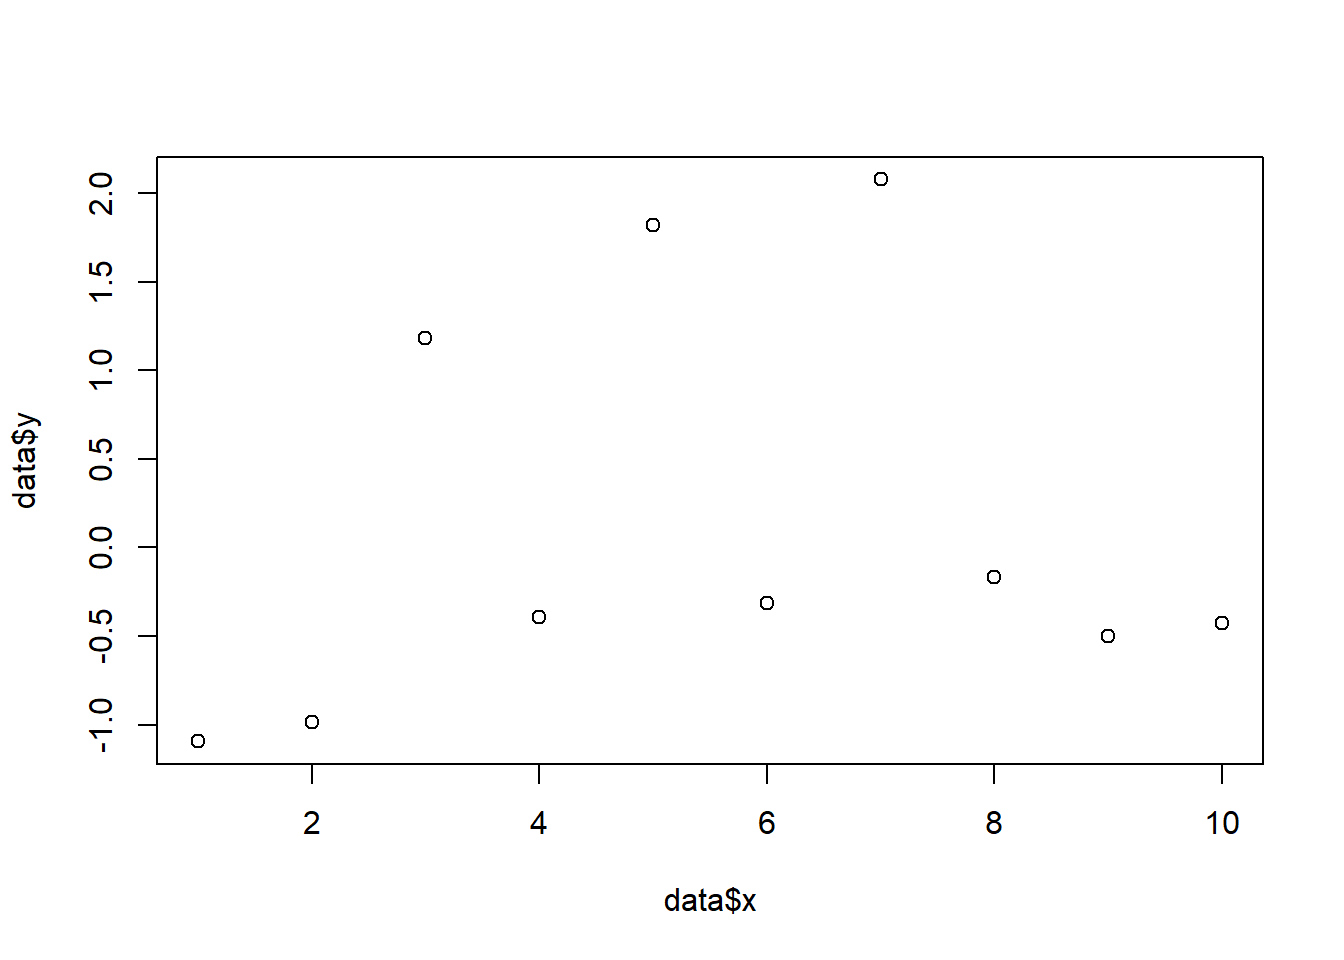
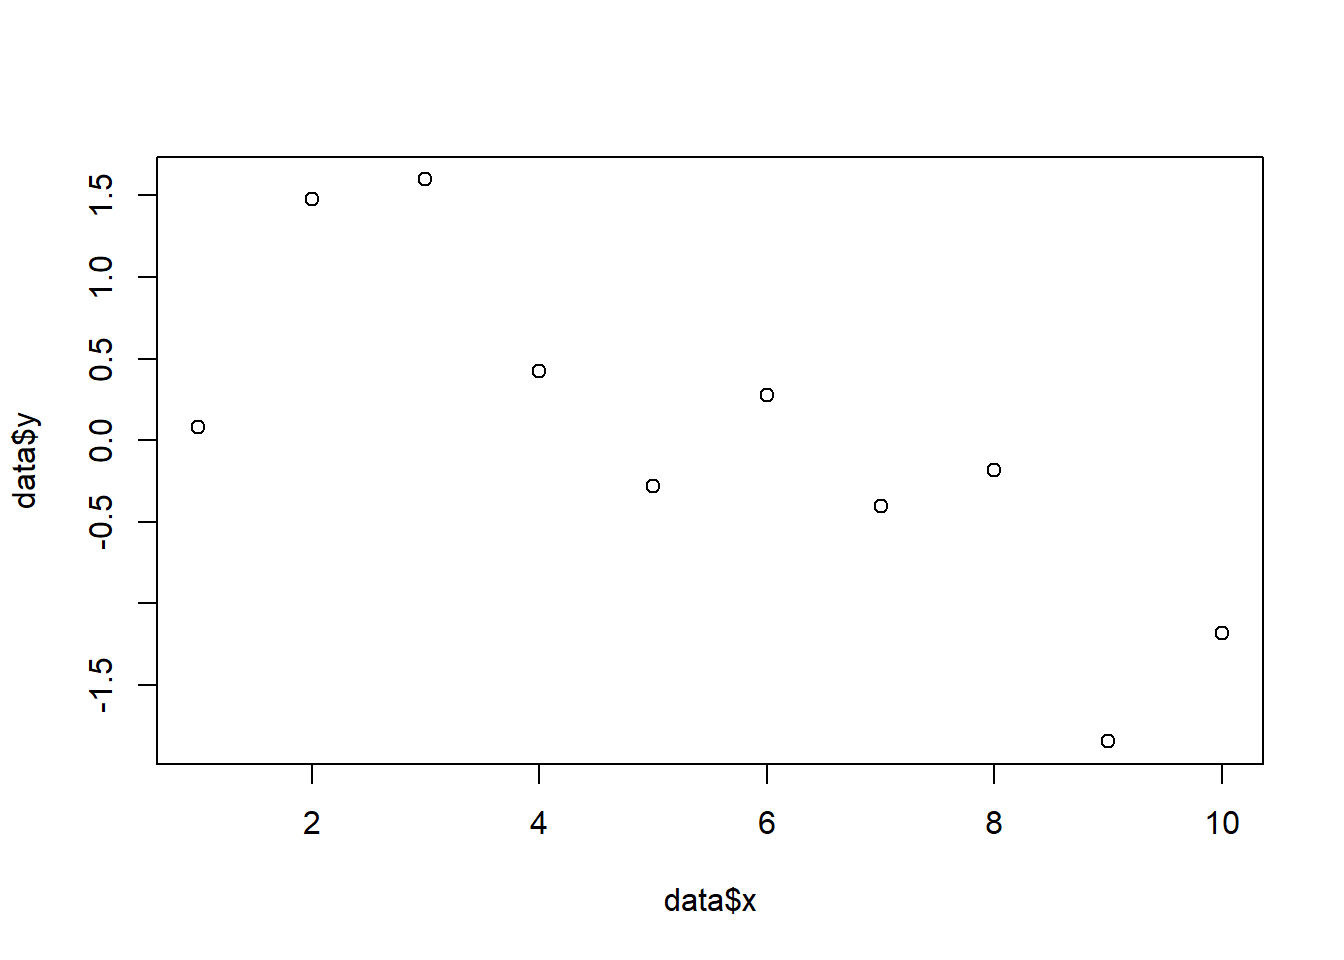
update pt 4

diff --git a/docs/projects/final-report.html b/docs/projects/final-report.html
@@ -7,9 +7,9 @@
 <meta name="viewport" content="width=device-width, initial-scale=1.0, user-scalable=yes">
 
 <meta name="author" content="Natalia Ramirez-Sotelo">
-<meta name="dcterms.date" content="2026-06-04">
+<meta name="dcterms.date" content="2026-07-29">
 
-<title>Final Report: [Differential Gene Analysis of Osteosarcoma] – My Research Profile</title>
+<title>Final Report: Differential Gene Analysis of Osteosarcoma – My Research Profile</title>
 <style>
 /* Default styles provided by pandoc.
 ** See https://pandoc.org/MANUAL.html#variables-for-html for config info.
@@ -160,11 +160,9 @@ pre > code.sourceCode > span > a:first-child::before { text-decoration: underlin
     <h2 id="toc-title">On this page</h2>
    
   <ul>
-  <li><a href="#final-report-your-project-title" id="toc-final-report-your-project-title" class="nav-link active" data-scroll-target="#final-report-your-project-title">Final Report: [Your Project Title]</a>
-  <ul class="collapse">
-  <li><a href="#introduction" id="toc-introduction" class="nav-link" data-scroll-target="#introduction">Introduction</a></li>
+  <li><a href="#introduction" id="toc-introduction" class="nav-link active" data-scroll-target="#introduction">Introduction</a></li>
   <li><a href="#methods" id="toc-methods" class="nav-link" data-scroll-target="#methods">Methods</a></li>
-  <li><a href="#results" id="toc-results" class="nav-link" data-scroll-target="#results">Results</a>
+  <li><a href="#data-analysis" id="toc-data-analysis" class="nav-link" data-scroll-target="#data-analysis">Data Analysis</a>
   <ul class="collapse">
   <li><a href="#example-code-block" id="toc-example-code-block" class="nav-link" data-scroll-target="#example-code-block">Example Code Block</a></li>
   <li><a href="#example-table" id="toc-example-table" class="nav-link" data-scroll-target="#example-table">Example Table</a></li>
@@ -172,7 +170,6 @@ pre > code.sourceCode > span > a:first-child::before { text-decoration: underlin
   <li><a href="#discussion" id="toc-discussion" class="nav-link" data-scroll-target="#discussion">Discussion</a></li>
   <li><a href="#conclusions" id="toc-conclusions" class="nav-link" data-scroll-target="#conclusions">Conclusions</a></li>
   <li><a href="#references" id="toc-references" class="nav-link" data-scroll-target="#references">References</a></li>
-  </ul></li>
   </ul>
 </nav>
     </div>
@@ -181,7 +178,7 @@ pre > code.sourceCode > span > a:first-child::before { text-decoration: underlin
 
 <header id="title-block-header" class="quarto-title-block default">
 <div class="quarto-title">
-<h1 class="title">Final Report: [Differential Gene Analysis of Osteosarcoma]</h1>
+<h1 class="title">Final Report: Differential Gene Analysis of Osteosarcoma</h1>
 </div>
 
 
@@ -198,7 +195,7 @@ pre > code.sourceCode > span > a:first-child::before { text-decoration: underlin
     <div>
     <div class="quarto-title-meta-heading">Published</div>
     <div class="quarto-title-meta-contents">
-      <p class="date">June 4, 2026</p>
+      <p class="date">July 29, 2026</p>
     </div>
   </div>
   
@@ -210,18 +207,24 @@ pre > code.sourceCode > span > a:first-child::before { text-decoration: underlin
 </header>
 
 
-<section id="final-report-your-project-title" class="level1">
-<h1>Final Report: [Your Project Title]</h1>
 <section id="introduction" class="level2">
 <h2 class="anchored" data-anchor-id="introduction">Introduction</h2>
-<p>Replace this with an introduction to your research question or project. What are you investigating? Why does it matter?</p>
+<p>Osteosarcoma is the most common primary bone tumor malignancy and demonstrates a high risk of metastasis and recurrence after therapy. It presents itself in a bimodal distribution as it is commonly observed in individuals under 25 years of age or individuals over 65 years of age. Its occurrence in young adults is mainly due to the rapid bone growth of adolescence which predisposes the individual to cancerous development. In the elderly, osteosarcoma more commonly manifests itself as a secondary malignancy to Paget disease or irradiation.</p>
+<p>Osteosarcoma subtypes are characterized by degree of differentiation, histology, and location within the bone. The most common subtype of osteosarcoma is the intramedullary osteosarcoma which is both complex and aggressive. The most common symptom is bone pain, initially, as it is caused by activity, but as disease progresses, pain persists throughout rest. Treatment includes excision of tumor, chemotherapy, and radiation therapy. Despite the availability of treatments, patient survival rates remain low.</p>
+<p>The etiology of osteosarcoma is currently under investigation and believed to be the result of genetic predisposition. Some of the primary mutations include: germline mutations in the RB1 gene which cause hereditary retinoblastoma, germline mutations in the TP53 tumor suppressor gene which cause Li-Fraumeni syndrome, and autosomal recessive mutations of the RECQL4 gene which cause Rothmund-Thompson syndrome. Development of any of these syndromes leads to increased risk of osteosarcoma. Although some genetic mutations have been characterized, the identification of changes in gene expression that lead to osteosarcoma would provide potential insight as to novel therapeutic strategies. Hence, this study aimed to perform a genome wide comparison of gene expression to identify genes that are differentially expressed in osteosarcoma cell lines (U2OS and MG63) as compared to normal human osteoblasts (HOB). The goal of this analysis is to visualize the data generated by this study using code generated in R.</p>
 </section>
 <section id="methods" class="level2">
 <h2 class="anchored" data-anchor-id="methods">Methods</h2>
-<p>Describe how you conducted your analysis. What data did you use? What analyses did you perform?</p>
+<p>This study characterized the gene expression profile of osteosarcoma cell lines U2OS and MG63 as well as normal human osteoblasts (HOB). A combination of technologies were used to generate epigenomic, genomic, and gene expression profiles. For this R analysis, however, a txt file was obtained from this study’s Affymetrix Gene 1.0 platform microarray experiment. Gene expression profiling by microarray consists of a glass slide or silicon chip that contains thousands of DNA probes. These DNA probes are designed to be complimentary to mRNA or cDNA gene sequences of a sample of choice. The mRNA or cDNA of the sample will hybridize to the oligonucleotide probes. As these samples hybridize to their complementary sequence, they will cause the probe to release a signal. The more signal generated by the probe, the higher the abundance of that particular transcript. In this manner, signal intensity can dictate a quantitative measure of gene expression.</p>
+<div class="quarto-figure quarto-figure-center">
+<figure class="figure">
+<p><img src="../Screenshot 2026-07-30 002128.png" class="img-fluid figure-img" style="width:60.0%"></p>
+<figcaption>Microarray workflow: Staudt, Louis &amp; Brown, Patrick. (2000). Genomic Views of the Immune System. Annual Review of Immunology. 18. 829-859. 10.1146/annurev.immunol.18.1.829.</figcaption>
+</figure>
+</div>
 </section>
-<section id="results" class="level2">
-<h2 class="anchored" data-anchor-id="results">Results</h2>
+<section id="data-analysis" class="level2">
+<h2 class="anchored" data-anchor-id="data-analysis">Data Analysis</h2>
 <p>Share your findings here. You can include:</p>
 <ul>
 <li>Text explanations</li>
@@ -234,16 +237,18 @@ pre > code.sourceCode > span > a:first-child::before { text-decoration: underlin
 <p>Here’s a sample R code block:</p>
 <div class="cell">
 <div class="code-copy-outer-scaffold"><div class="sourceCode cell-code" id="cb1"><pre class="sourceCode r code-with-copy"><code class="sourceCode r"><span id="cb1-1"><a href="#cb1-1" aria-hidden="true" tabindex="-1"></a><span class="co"># Load a library</span></span>
-<span id="cb1-2"><a href="#cb1-2" aria-hidden="true" tabindex="-1"></a><span class="fu">library</span>(ggplot2)</span>
-<span id="cb1-3"><a href="#cb1-3" aria-hidden="true" tabindex="-1"></a></span>
-<span id="cb1-4"><a href="#cb1-4" aria-hidden="true" tabindex="-1"></a><span class="co"># Create some sample data</span></span>
-<span id="cb1-5"><a href="#cb1-5" aria-hidden="true" tabindex="-1"></a>data <span class="ot">&lt;-</span> <span class="fu">data.frame</span>(</span>
-<span id="cb1-6"><a href="#cb1-6" aria-hidden="true" tabindex="-1"></a>  <span class="at">x =</span> <span class="dv">1</span><span class="sc">:</span><span class="dv">10</span>,</span>
-<span id="cb1-7"><a href="#cb1-7" aria-hidden="true" tabindex="-1"></a>  <span class="at">y =</span> <span class="fu">rnorm</span>(<span class="dv">10</span>)</span>
-<span id="cb1-8"><a href="#cb1-8" aria-hidden="true" tabindex="-1"></a>)</span>
-<span id="cb1-9"><a href="#cb1-9" aria-hidden="true" tabindex="-1"></a></span>
-<span id="cb1-10"><a href="#cb1-10" aria-hidden="true" tabindex="-1"></a><span class="co"># Make a plot</span></span>
-<span id="cb1-11"><a href="#cb1-11" aria-hidden="true" tabindex="-1"></a><span class="fu">plot</span>(data<span class="sc">$</span>x, data<span class="sc">$</span>y)</span></code></pre></div><button title="Copy to Clipboard" class="code-copy-button"><i class="bi"></i></button></div>
+<span id="cb1-2"><a href="#cb1-2" aria-hidden="true" tabindex="-1"></a><span class="fu">library</span>(ggplot2)</span></code></pre></div><button title="Copy to Clipboard" class="code-copy-button"><i class="bi"></i></button></div>
+<div class="cell-output cell-output-stderr">
+<pre><code>Warning: package 'ggplot2' was built under R version 4.6.1</code></pre>
+</div>
+<div class="code-copy-outer-scaffold"><div class="sourceCode cell-code" id="cb3"><pre class="sourceCode r code-with-copy"><code class="sourceCode r"><span id="cb3-1"><a href="#cb3-1" aria-hidden="true" tabindex="-1"></a><span class="co"># Create some sample data</span></span>
+<span id="cb3-2"><a href="#cb3-2" aria-hidden="true" tabindex="-1"></a>data <span class="ot">&lt;-</span> <span class="fu">data.frame</span>(</span>
+<span id="cb3-3"><a href="#cb3-3" aria-hidden="true" tabindex="-1"></a>  <span class="at">x =</span> <span class="dv">1</span><span class="sc">:</span><span class="dv">10</span>,</span>
+<span id="cb3-4"><a href="#cb3-4" aria-hidden="true" tabindex="-1"></a>  <span class="at">y =</span> <span class="fu">rnorm</span>(<span class="dv">10</span>)</span>
+<span id="cb3-5"><a href="#cb3-5" aria-hidden="true" tabindex="-1"></a>)</span>
+<span id="cb3-6"><a href="#cb3-6" aria-hidden="true" tabindex="-1"></a></span>
+<span id="cb3-7"><a href="#cb3-7" aria-hidden="true" tabindex="-1"></a><span class="co"># Make a plot</span></span>
+<span id="cb3-8"><a href="#cb3-8" aria-hidden="true" tabindex="-1"></a><span class="fu">plot</span>(data<span class="sc">$</span>x, data<span class="sc">$</span>y)</span></code></pre></div><button title="Copy to Clipboard" class="code-copy-button"><i class="bi"></i></button></div>
 <div class="cell-output-display">
 <div>
 <figure class="figure">
@@ -293,7 +298,6 @@ pre > code.sourceCode > span > a:first-child::before { text-decoration: underlin
 <p><strong>Last updated:</strong> June 2026</p>
 
 
-</section>
 </section>
 
 </main> <!-- /main -->

diff --git a/docs/projects.html b/docs/projects.html
@@ -123,10 +123,7 @@ ul.task-list li input[type="checkbox"] {
     <h2 id="toc-title">On this page</h2>
    
   <ul>
-  <li><a href="#my-projects" id="toc-my-projects" class="nav-link active" data-scroll-target="#my-projects">My Projects</a>
-  <ul class="collapse">
-  <li><a href="#final-report" id="toc-final-report" class="nav-link" data-scroll-target="#final-report">Final Report</a></li>
-  </ul></li>
+  <li><a href="#final-report" id="toc-final-report" class="nav-link active" data-scroll-target="#final-report">Final Report</a></li>
   </ul>
 </nav>
     </div>
@@ -152,9 +149,6 @@ ul.task-list li input[type="checkbox"] {
 </header>
 
 
-<section id="my-projects" class="level1">
-<h1>My Projects</h1>
-<p>Here are my research projects and work:</p>
 <section id="final-report" class="level2">
 <h2 class="anchored" data-anchor-id="final-report">Final Report</h2>
 <p>My final project for CELL 6351 - Intro to Reproducible Data Analysis Using R.</p>
@@ -162,7 +156,6 @@ ul.task-list li input[type="checkbox"] {
 <hr>
 
 
-</section>
 </section>
 
 </main> <!-- /main -->
